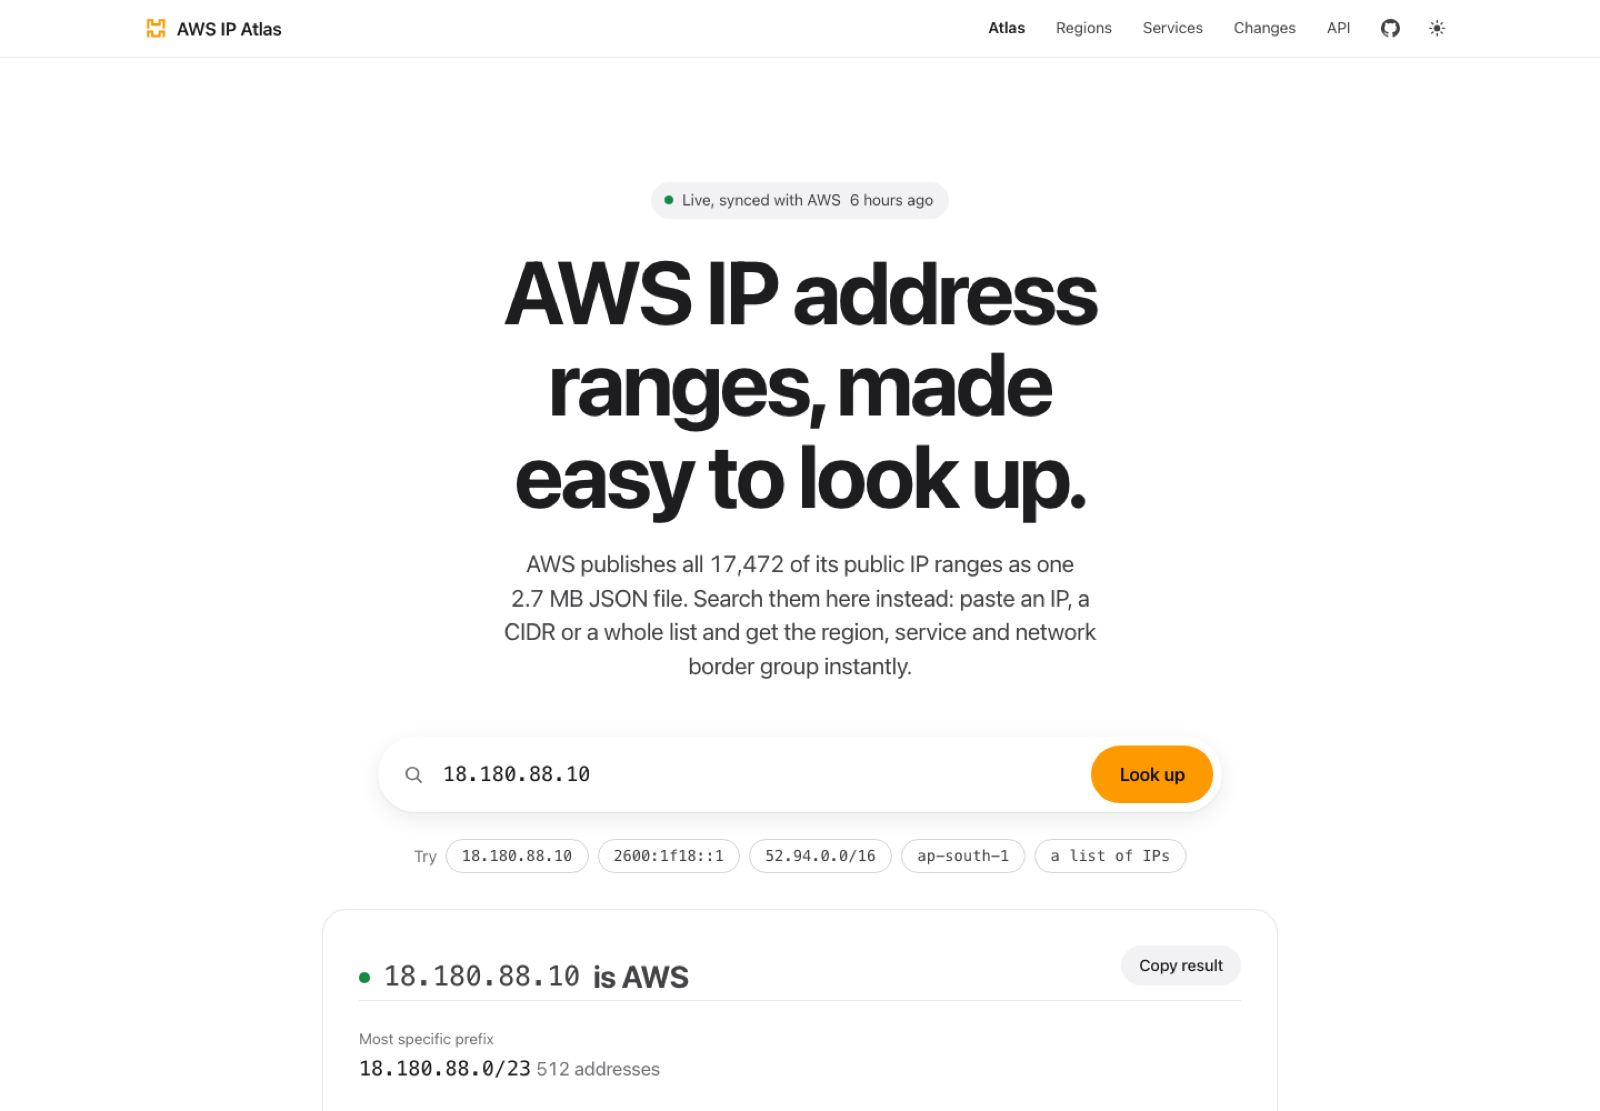
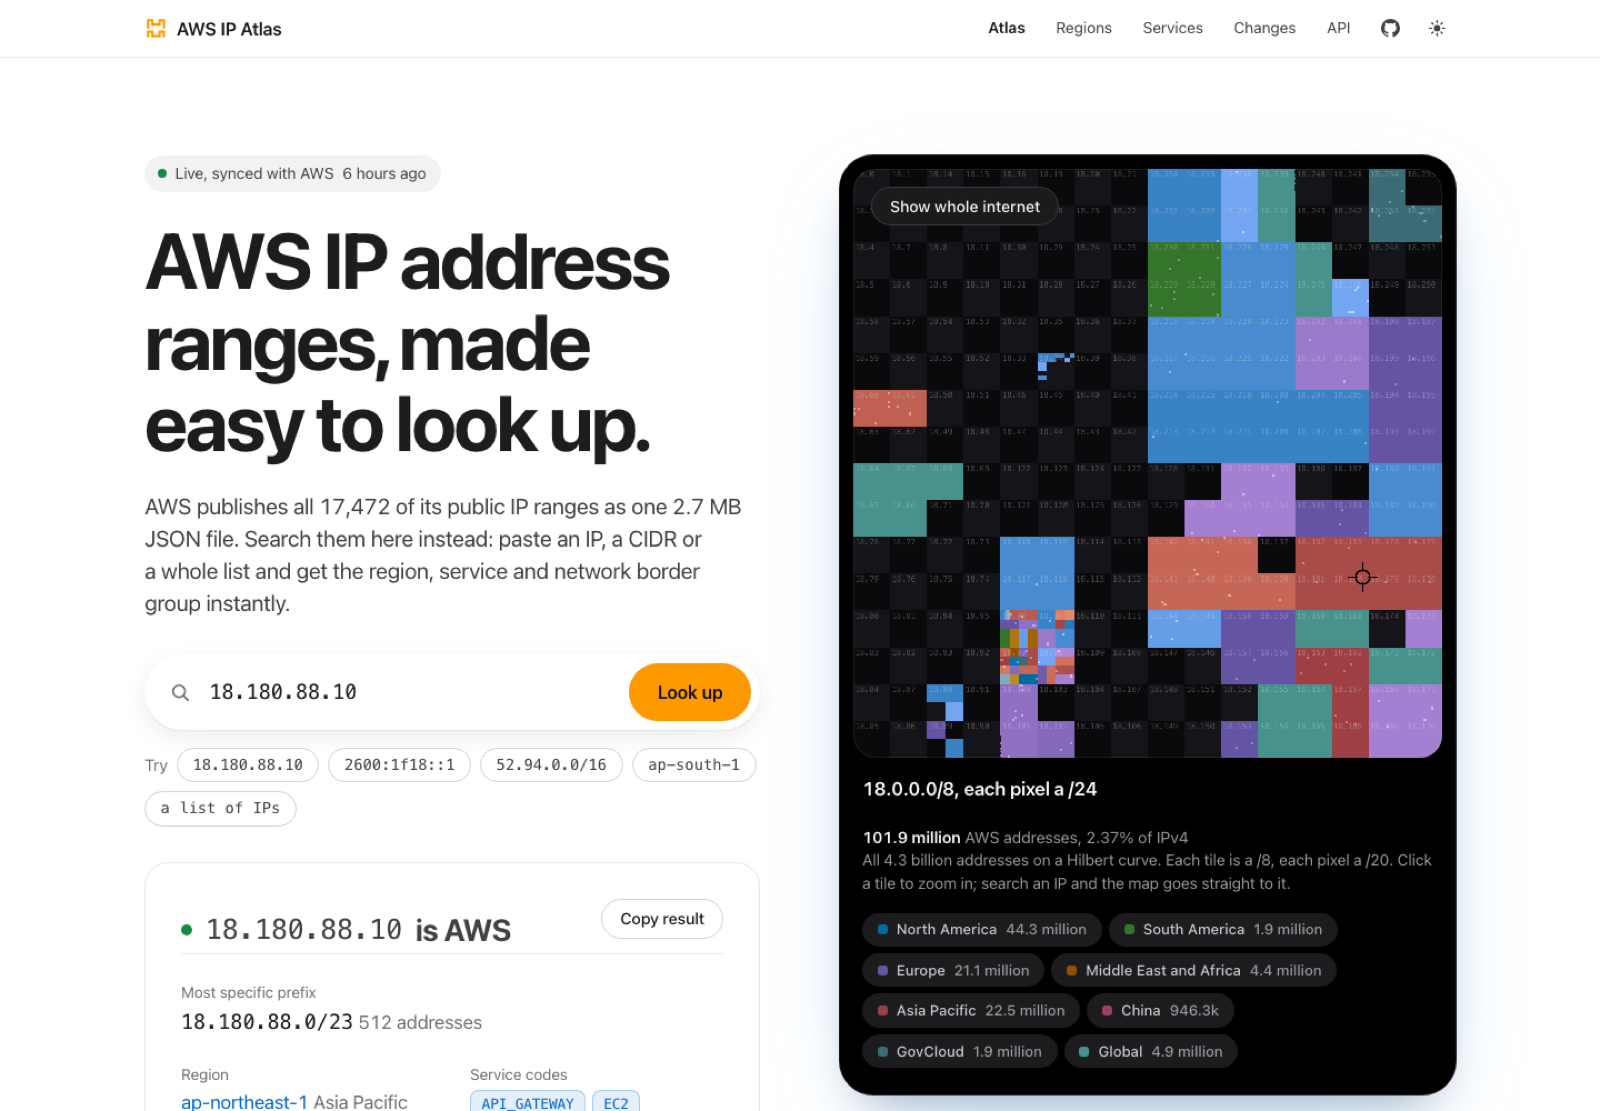
Restore side-by-side hero, honest allowlist note, clickable service chips, outlined buttons

diff --git a/src/styles.css b/src/styles.css
@@ -87,12 +87,13 @@ main { width: var(--wrap); margin-inline: auto; }
 .lamp, .dot { display: inline-block; width: 8px; height: 8px; border-radius: 50%; flex: none; background: var(--mute); }
 .lamp.on { background: var(--ok); }
 
-/* ---------- hero: the search is the product ---------- */
-.hero { text-align: center; padding: clamp(3.5rem, 9vw, 7rem) 0 clamp(3.5rem, 8vw, 6rem); }
+/* ---------- hero: search beside the map ---------- */
+.hero { display: grid; grid-template-columns: minmax(0, 1fr) minmax(0, 1fr); gap: clamp(2rem, 5vw, 4.5rem); align-items: start; padding: clamp(3rem, 7vw, 5.5rem) 0 clamp(4rem, 8vw, 6rem); }
+.hero > * { min-width: 0; }
 .status { display: inline-flex; align-items: center; gap: var(--s2); font-size: .88rem; color: var(--ink-2); margin: 0 0 var(--s5); padding: .38rem .85rem .38rem .72rem; border-radius: var(--r-pill); background: var(--chip); }
-.hero h1 { font-size: clamp(2.6rem, 1.4rem + 4.6vw, 5rem); line-height: 1.03; font-weight: 700; letter-spacing: -0.035em; margin: 0 auto var(--s5); max-width: 14.5ch; text-wrap: balance; }
-.lede { font-size: clamp(1.1rem, 1rem + .4vw, 1.32rem); line-height: 1.45; color: var(--ink-2); max-width: 42ch; margin: 0 auto var(--s7); text-wrap: pretty; }
-.search { display: flex; align-items: center; gap: var(--s2); max-width: 760px; margin: 0 auto; text-align: left; padding: 8px; padding-left: 1.4rem; border-radius: var(--r-pill); background: var(--surface); box-shadow: var(--elev-search); transition: box-shadow .2s var(--ease); }
+.hero h1 { font-size: clamp(2.5rem, 1.5rem + 3.4vw, 4.4rem); line-height: 1.04; font-weight: 700; letter-spacing: -0.035em; margin: 0 0 var(--s5); text-wrap: balance; }
+.lede { font-size: clamp(1.08rem, 1rem + .35vw, 1.25rem); line-height: 1.45; color: var(--ink-2); max-width: 46ch; margin: 0 0 var(--s6); text-wrap: pretty; }
+.search { display: flex; align-items: center; gap: var(--s2); margin: 0; padding: 8px; padding-left: 1.4rem; border-radius: var(--r-pill); background: var(--surface); box-shadow: var(--elev-search); transition: box-shadow .2s var(--ease); }
 .search:hover { box-shadow: var(--elev-search-hover); }
 .search:focus-within { box-shadow: 0 0 0 2px var(--link), var(--elev-search-hover); }
 .search-icon { width: 1.25rem; height: 1.25rem; color: var(--mute); flex: none; }
@@ -102,14 +103,14 @@ main { width: var(--wrap); margin-inline: auto; }
 .btn.primary { color: var(--on-cta); background: var(--cta); align-self: stretch; }
 .btn.primary:hover { background: var(--cta-hover); }
 .btn.primary:active { background: #e07f00; }
-.btn.ghost { min-height: 2.25rem; padding: 0 1rem; font-size: .9rem; font-weight: 500; color: var(--ink); background: var(--chip); }
-.btn.ghost:hover { background: var(--chip-hover); }
-.try { display: flex; flex-wrap: wrap; justify-content: center; align-items: center; gap: var(--s2); color: var(--mute); font-size: .92rem; margin: var(--s5) auto 0; max-width: 760px; }
+.btn.ghost { min-height: 2.25rem; padding: 0 1rem; font-size: .9rem; font-weight: 500; color: var(--ink); background: transparent; border: 1px solid var(--rule); }
+.btn.ghost:hover { background: var(--chip); border-color: var(--mute); }
+.try { display: flex; flex-wrap: wrap; align-items: center; gap: var(--s2); color: var(--mute); font-size: .92rem; margin: var(--s4) 0 0; }
 .try button { font: 400 .86rem/1 var(--mono); color: var(--ink-2); background: var(--surface); border: 1px solid var(--rule); border-radius: var(--r-pill); padding: .5rem .85rem; cursor: pointer; transition: border-color .15s, color .15s, background .15s; }
 .try button:hover { color: var(--ink); border-color: var(--ink-2); }
 
 /* ---------- results ---------- */
-.results { max-width: 860px; margin: var(--s6) auto 0; text-align: left; overflow-x: auto; }
+.results { margin-top: var(--s6); overflow-x: auto; }
 .results:empty { margin: 0; }
 .results.in > :first-child { animation: appear .3s var(--ease) both; }
 @keyframes appear { from { opacity: 0; transform: translateY(6px); } }
@@ -124,6 +125,8 @@ main { width: var(--wrap); margin-inline: auto; }
 .hit > div:first-child { grid-column: 1 / -1; }
 .hit dt, .plate dt, .facts dt { font-size: .86rem; color: var(--mute); margin-bottom: 3px; }
 .hit dd { margin: 0; }
+.rlink { color: var(--link); }
+.rlink:hover { text-decoration: underline; text-underline-offset: .18em; }
 .hit dd > code { font-size: 1.15rem; }
 .verdict p { color: var(--ink-2); margin: var(--s2) 0 0; }
 .r-sub { font-size: .95rem; font-weight: 600; margin: var(--s6) 0 var(--s2); color: var(--ink); }
@@ -142,8 +145,9 @@ th.num, td.num { text-align: right; }
 .match:hover code { color: var(--link); }
 .match .k { font-size: .86rem; color: var(--mute); }
 .match span, .match small { color: var(--mute); }
-.tag { display: inline-flex; gap: var(--s1); align-items: center; font: 500 .8rem/1 var(--mono); padding: .34rem .6rem; margin: 0 .3rem .3rem 0; border-radius: var(--r-pill); background: var(--chip); color: var(--ink-2); }
-a.tag:hover { background: var(--chip-hover); color: var(--ink); }
+.tag { display: inline-flex; gap: var(--s1); align-items: center; font: 500 .8rem/1 var(--mono); padding: .38rem .6rem; margin: 0 .35rem .35rem 0; border-radius: var(--r-sm); background: var(--chip); color: var(--ink-2); border: 1px solid var(--rule-soft); }
+a.tag { color: var(--link); background: color-mix(in srgb, var(--link) 10%, transparent); border-color: color-mix(in srgb, var(--link) 28%, transparent); transition: background .15s, border-color .15s; }
+a.tag:hover { background: color-mix(in srgb, var(--link) 18%, transparent); border-color: color-mix(in srgb, var(--link) 55%, transparent); color: var(--link); }
 .tag span { font-family: var(--font); color: var(--mute); }
 .badge { font-size: .74rem; font-weight: 600; padding: .16rem .5rem; border-radius: var(--r-pill); background: color-mix(in srgb, var(--cta) 20%, transparent); color: var(--warn); vertical-align: 1px; }
 
@@ -151,14 +155,12 @@ a.tag:hover { background: var(--chip-hover); color: var(--ink); }
 .band { margin-inline: calc(50% - 50vw); padding-block: clamp(4.5rem, 10vw, 8rem); }
 .band-inner { width: var(--wrap); margin-inline: auto; }
 .band.gray { background: var(--bg-2); }
-.band.dark { background: #000; color: #f5f5f7; color-scheme: dark; --ink: #f5f5f7; --ink-2: #c7c7cc; --mute: #98989d; --rule: #38383a; --rule-soft: #2c2c2e; --chip: #1c1c1e; --chip-hover: #2c2c2e; --link: #2997ff; }
-.band-head { text-align: center; max-width: 820px; margin: 0 auto var(--s7); }
-.band-head .section-title { margin-bottom: var(--s4); }
-.band-head p { margin: 0 auto; color: var(--ink-2); font-size: 1.1rem; max-width: 62ch; text-wrap: pretty; }
 
-/* ---------- the map ---------- */
-.atlas { margin: 0 auto; max-width: 860px; }
-.map-wrap { position: relative; aspect-ratio: 1; border-radius: var(--r-lg); overflow: hidden; cursor: zoom-in; touch-action: manipulation; background: rgb(var(--map-bg)); box-shadow: 0 0 0 1px #2c2c2e, 0 40px 100px -40px rgba(41, 151, 255, 0.28); }
+/* ---------- the map: a black panel in both themes ---------- */
+.atlas { margin: 0; padding: 12px 12px var(--s5); border-radius: 30px; background: #000; color: #f5f5f7; color-scheme: dark;
+  --ink: #f5f5f7; --ink-2: #c7c7cc; --mute: #98989d; --rule: #38383a; --rule-soft: #2c2c2e; --chip: #1c1c1e; --chip-hover: #2c2c2e;
+  box-shadow: 0 0 0 1px #1c1c1e, 0 30px 80px -30px rgba(41, 151, 255, 0.35), 0 20px 40px -20px rgba(0, 0, 0, 0.35); }
+.map-wrap { position: relative; aspect-ratio: 1; border-radius: 20px; overflow: hidden; cursor: zoom-in; touch-action: manipulation; background: rgb(var(--map-bg)); box-shadow: inset 0 0 0 1px #1c1c1e; }
 .map-wrap.zoomed { cursor: crosshair; }
 .map-wrap img, .map-wrap .map-overlay, .map-zoom { position: absolute; inset: 0; width: 100%; height: 100%; image-rendering: pixelated; display: block; }
 .map-zoom { opacity: 0; pointer-events: none; }
@@ -173,15 +175,22 @@ a.tag:hover { background: var(--chip-hover); color: var(--ink); }
 .map-tip .muted { color: #a1a1a6; }
 .tip-region::before { content: ''; display: inline-block; width: 9px; height: 9px; border-radius: 3px; background: var(--c); margin-right: var(--s2); }
 .tip-line { font-size: .8rem; color: #d2d2d7; }
-figcaption { padding-top: var(--s5); text-align: center; }
-.map-where { font-weight: 600; letter-spacing: -0.015em; margin: 0 0 var(--s4); color: var(--ink-2); }
-.legend { list-style: none; padding: 0; margin: 0; display: flex; flex-wrap: wrap; justify-content: center; gap: var(--s2); }
-.legend button { display: inline-flex; align-items: center; gap: var(--s2); font: 500 .86rem/1 var(--font); color: var(--ink-2); background: var(--chip); border: 1px solid transparent; border-radius: var(--r-pill); padding: .55rem .9rem; cursor: pointer; transition: background .15s, color .15s, border-color .15s; }
+figcaption { padding: var(--s4) var(--s2) 0; }
+.map-cap-row { display: flex; justify-content: space-between; align-items: baseline; gap: var(--s4); flex-wrap: wrap; }
+.map-where { font-weight: 600; letter-spacing: -0.015em; margin: 0 0 var(--s1); color: var(--ink); }
+.map-share { margin: 0; color: var(--mute); font-size: .9rem; }
+.map-share b { color: var(--ink); font-weight: 600; }
+.map-note { font-size: .88rem; color: var(--mute); margin: 0 0 var(--s4); max-width: 64ch; }
+.legend { list-style: none; padding: 0; margin: 0; display: flex; flex-wrap: wrap; gap: 6px; }
+.legend button { display: inline-flex; align-items: center; gap: var(--s2); font: 500 .82rem/1 var(--font); color: var(--ink-2); background: var(--chip); border: 1px solid transparent; border-radius: var(--r-pill); padding: .48rem .8rem; cursor: pointer; transition: background .15s, color .15s, border-color .15s; }
 .legend button i { width: 9px; height: 9px; border-radius: 3px; background: var(--c); }
 .legend button span { color: var(--mute); }
 .legend button:hover, .legend button.on { color: var(--ink); background: var(--chip-hover); border-color: color-mix(in srgb, var(--c) 60%, transparent); }
 
 /* ---------- allowlist builder ---------- */
+.note { margin: calc(var(--s7) * -0.5) 0 var(--s6); padding: var(--s4) var(--s5); border-radius: var(--r-md); background: color-mix(in srgb, var(--warn) 10%, var(--surface)); border: 1px solid color-mix(in srgb, var(--warn) 30%, transparent); color: var(--ink-2); font-size: .97rem; max-width: 80ch; }
+.note b { color: var(--ink); font-weight: 600; }
+.note code { font-size: .88em; }
 .builder-form { display: grid; grid-template-columns: repeat(4, minmax(0, 1fr)); gap: var(--s4); align-items: end; }
 .builder-form label { display: grid; gap: var(--s2); font-size: .88rem; font-weight: 500; color: var(--ink-2); }
 .builder-form select { appearance: none; font: 400 1rem/1.2 var(--font); color: var(--ink); border: 1px solid var(--field-edge); border-radius: var(--r-md); padding: .85rem 2.4rem .85rem 1rem; min-width: 0; cursor: pointer;
@@ -348,7 +357,7 @@ h3 { font-weight: 600; letter-spacing: -0.015em; }
 
 /* ---------- responsive ---------- */
 @media (max-width: 1000px) {
-  .browse, .section-head, .split { grid-template-columns: 1fr; }
+  .hero, .browse, .section-head, .split { grid-template-columns: 1fr; }
   .plate { grid-template-columns: repeat(2, 1fr); }
   .plate > div, .plate > div + div { padding: var(--s4) var(--s4) var(--s4) 0; border-left: 0; border-bottom: 1px solid var(--rule-soft); }
   .plate > div:nth-child(even) { padding-left: var(--s4); border-left: 1px solid var(--rule-soft); }
@@ -372,6 +381,8 @@ h3 { font-weight: 600; letter-spacing: -0.015em; }
   .verdict { padding: var(--s5); }
   .copy-result { position: static; margin-bottom: var(--s4); }
   .loupe { display: none; }
+  .atlas { padding: 8px 8px var(--s4); border-radius: 24px; }
+  .map-wrap { border-radius: 17px; }
   .arrivals li { grid-template-columns: 1fr; gap: 0; }
   .svc-table th:nth-child(3), .svc-table td:nth-child(3) { display: none; }
   .bulk th:nth-child(4), .bulk td:nth-child(4) { display: none; }

diff --git a/src/app.js b/src/app.js
@@ -129,8 +129,8 @@ function formerHit(a, t) {
   return a.formerParsed.filter((x) => x.t.v === t.v && x.t.start <= t.start && x.t.end >= t.end).sort((x, y) => y.t.len - x.t.len)[0];
 }
 
-const regionLink = (a, ri) => { const [code, name, announced] = a.regions[ri]; return `<a href="${BASE}regions/${code}/">${esc(code)}</a> <span class="muted">${announced ? esc(name) : 'name not yet published'}</span>`; };
-const svcTags = (a, sv) => sv.map((i) => a.services[i][0]).filter((s, _, all) => s !== 'AMAZON' || all.length === 1).map((s) => `<a class="tag" href="${BASE}services/${slug(s)}/">${esc(s)}</a>`).join('');
+const regionLink = (a, ri) => { const [code, name, announced] = a.regions[ri]; return `<a class="rlink" href="${BASE}regions/${code}/" title="See every range in ${esc(code)}">${esc(code)}</a> <span class="muted">${announced ? esc(name) : 'name not yet published'}</span>`; };
+const svcTags = (a, sv) => sv.map((i) => a.services[i][0]).filter((s, _, all) => s !== 'AMAZON' || all.length === 1).map((s) => `<a class="tag" href="${BASE}services/${slug(s)}/" title="See every ${esc(s)} range">${esc(s)}</a>`).join('');
 
 // ---------- search ----------
 const form = $('.search');
@@ -158,7 +158,7 @@ if (form) {
     out.classList.remove('in'); void out.offsetWidth; out.classList.add('in');
     $('[data-copy-csv]', out)?.addEventListener('click', (e) => copy(e.currentTarget.dataset.csv, 'Copied results as CSV'));
     $('.copy-result', out)?.addEventListener('click', (e) => copy(e.currentTarget.dataset.result, 'Copied result'));
-    $('.show-map', out)?.addEventListener('click', () => $('#map')?.scrollIntoView({ behavior: prefersReduced ? 'auto' : 'smooth', block: 'center' }));
+    $('.show-map', out)?.addEventListener('click', () => $('#map')?.scrollIntoView({ behavior: prefersReduced ? 'auto' : 'smooth', block: 'nearest' }));
     if (push && innerWidth < 900) out.scrollIntoView({ behavior: prefersReduced ? 'auto' : 'smooth', block: 'start' });
   }
 
@@ -362,7 +362,7 @@ function initMap(root) {
     q.value = hits.length ? (hits[0].t.len >= 24 ? hits[0].cidr : formatIPv4(start + 1)) : `${formatIPv4(start)}/24`;
     q.dispatchEvent(new Event('input'));
     $('.search button')?.click();
-    setTimeout(() => $('#results')?.scrollIntoView({ behavior: prefersReduced ? 'auto' : 'smooth', block: 'center' }), 220);
+    setTimeout(() => $('#results')?.scrollIntoView({ behavior: prefersReduced ? 'auto' : 'smooth', block: 'nearest' }), 220);
   });
   addEventListener('keydown', (e) => { if (e.key === 'Escape' && zoom !== null) setZoom(null); });
   addEventListener('themechange', () => { for (const k in dimCache) delete dimCache[k]; if (zoom !== null && a) paintZoom(zoom); draw(); });
